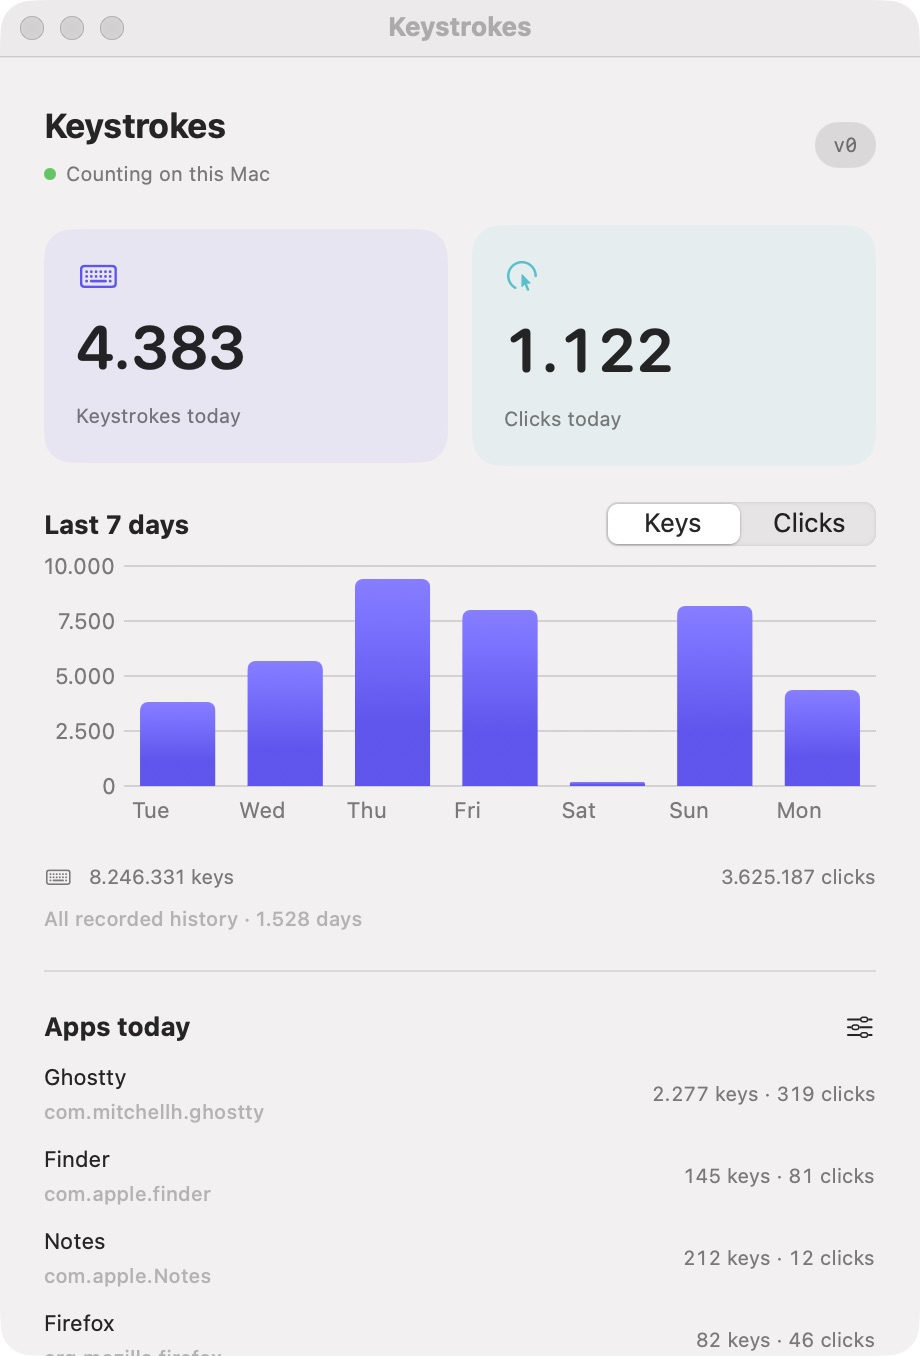
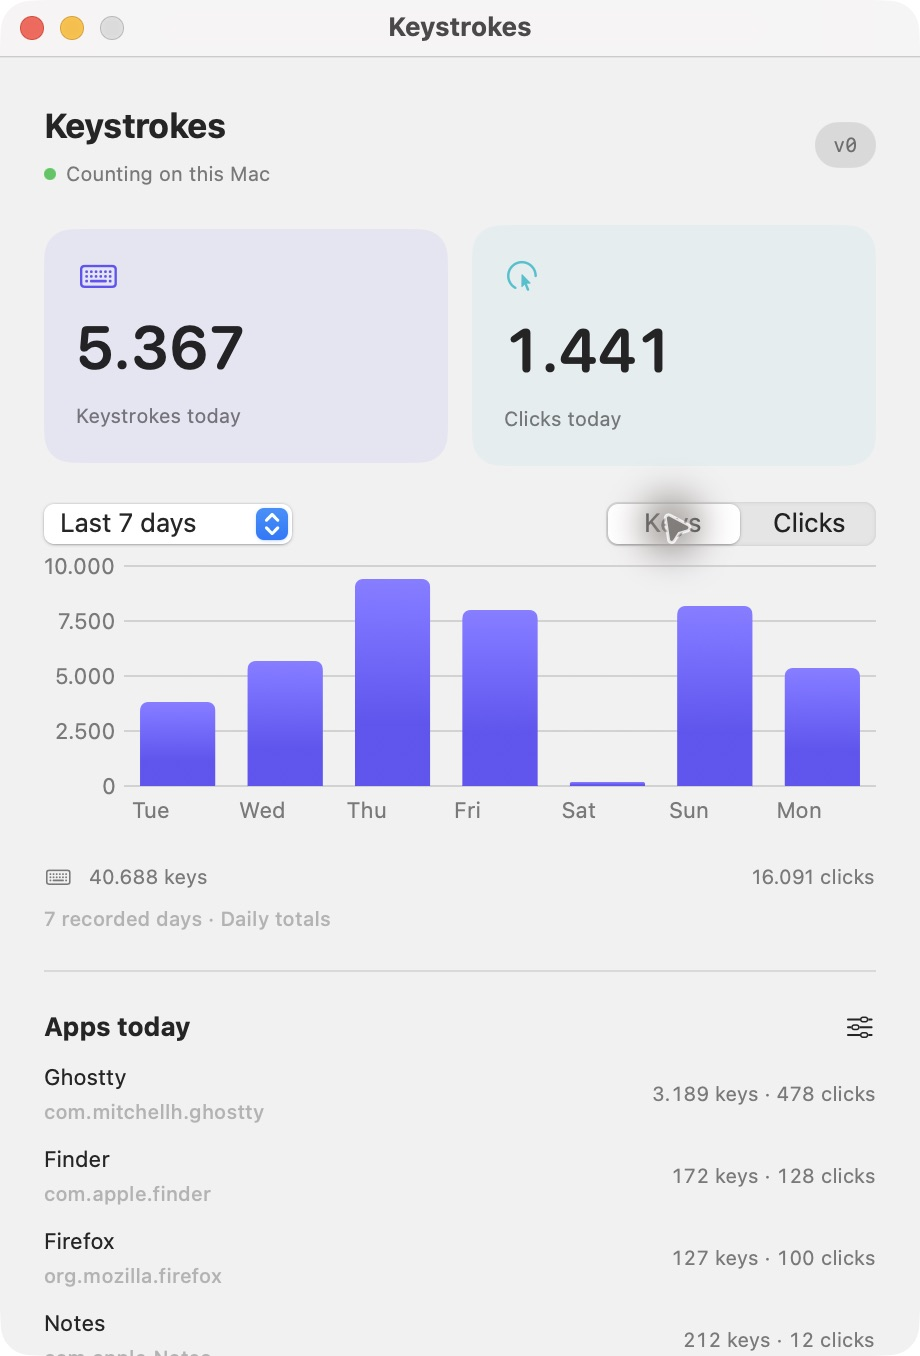
feat: add history ranges and period totals

diff --git a/Sources/Keystrokes/DashboardView.swift b/Sources/Keystrokes/DashboardView.swift
@@ -5,17 +5,8 @@ import KeystrokesCore
 struct DashboardView: View {
     @ObservedObject var model: AppModel
 
-    private var week: [(date: Date, keys: Int64, clicks: Int64)] {
-        let calendar = Calendar.current
-        return (-6...0).compactMap { offset in
-            guard let date = calendar.date(byAdding: .day, value: offset, to: calendar.startOfDay(for: .now)) else { return nil }
-            let day = DayKey.string(date)
-            let stats = model.days.first { $0.day == day }
-            return (date, stats?.keys ?? 0, stats?.clicks ?? 0)
-        }
-    }
-
     var body: some View {
+        let history = HistorySummary.make(days: model.days, range: model.historyRange)
         ScrollView {
         VStack(alignment: .leading, spacing: 18) {
             HStack {
@@ -48,29 +39,49 @@ struct DashboardView: View {
 
             VStack(alignment: .leading, spacing: 10) {
                 HStack {
-                    Text("Last 7 days").font(.headline)
+                    Picker("Time frame", selection: $model.historyRange) {
+                        ForEach(HistoryRange.allCases) { range in Text(range.title).tag(range) }
+                    }
+                    .pickerStyle(.menu).labelsHidden().fixedSize()
+                    .font(.headline)
                     Spacer()
                     Picker("Metric", selection: $model.metric) { Text("Keys").tag("Keys"); Text("Clicks").tag("Clicks") }
                         .pickerStyle(.segmented).labelsHidden().frame(width: 135)
                 }
-                Chart(week, id: \.date) { day in
-                    BarMark(x: .value("Day", day.date, unit: .day), y: .value(model.metric, model.metric == "Keys" ? day.keys : day.clicks))
+                Chart(history.buckets) { bucket in
+                    BarMark(x: .value("Period", bucket.date, unit: model.historyRange.component),
+                            y: .value(model.metric, model.metric == "Keys" ? bucket.keys : bucket.clicks))
                         .foregroundStyle(model.metric == "Keys" ? Color.indigo.gradient : Color.teal.gradient)
                         .cornerRadius(4)
                 }
                 .chartXAxis {
-                    AxisMarks(values: .stride(by: .day)) { _ in AxisValueLabel(format: .dateTime.weekday(.abbreviated)) }
+                    switch model.historyRange {
+                    case .sevenDays:
+                        AxisMarks(values: .stride(by: .day)) { _ in AxisValueLabel(format: .dateTime.weekday(.abbreviated)) }
+                    case .thirtyDays:
+                        AxisMarks(values: .stride(by: .day, count: 7)) { _ in
+                            AxisValueLabel(format: .dateTime.day().month(.abbreviated), centered: false, anchor: .topTrailing)
+                        }
+                    case .year:
+                        AxisMarks(values: .stride(by: .month, count: 2)) { _ in
+                            AxisValueLabel(format: .dateTime.month(.abbreviated), centered: false, anchor: .topTrailing)
+                        }
+                    case .all:
+                        AxisMarks(values: .automatic(desiredCount: 5)) { _ in
+                            AxisValueLabel(format: .dateTime.month(.abbreviated).year(.twoDigits), centered: false, anchor: .topTrailing)
+                        }
+                    }
                 }
                 .chartYAxis { AxisMarks(position: .leading) }
                 .frame(height: 130)
             }
 
             HStack {
-                Label("\(model.allKeys.formatted()) keys", systemImage: "keyboard")
+                Label("\(history.keys.formatted()) keys", systemImage: "keyboard")
                 Spacer()
-                Text("\(model.allClicks.formatted()) clicks")
+                Text("\(history.clicks.formatted()) clicks")
             }.font(.caption).foregroundStyle(.secondary)
-            Text("All recorded history · \(model.days.count.formatted()) days")
+            Text("\(history.recordedDays.formatted()) recorded days · \(model.historyRange.granularity)")
                 .font(.caption2).foregroundStyle(.tertiary).padding(.top, -12)
 
             Divider()

diff --git a/Tests/KeystrokesCoreTests/HistoryTests.swift b/Tests/KeystrokesCoreTests/HistoryTests.swift
@@ -1,0 +1,81 @@
+import Foundation
+import Testing
+@testable import KeystrokesCore
+
+struct HistoryTests {
+    private var calendar: Calendar {
+        var calendar = Calendar(identifier: .iso8601)
+        calendar.timeZone = TimeZone(identifier: "Europe/Madrid")!
+        return calendar
+    }
+
+    private func date(_ value: String) -> Date {
+        ISO8601DateFormatter().date(from: value + "T12:00:00Z")!
+    }
+
+    @Test
+    func dailyRangesIncludeTodayAndHandleDaylightSaving() {
+        let days = [DayStats(day: "2024-03-26", keys: 100, clicks: 100),
+                    DayStats(day: "2024-03-27", keys: 2, clicks: 3),
+                    DayStats(day: "2024-03-31", keys: 5, clicks: 7),
+                    DayStats(day: "2024-04-02", keys: 11, clicks: 13),
+                    DayStats(day: "2024-04-03", keys: 1000, clicks: 1000)]
+        let week = HistorySummary.make(days: days, range: .sevenDays, now: date("2024-04-02"), calendar: calendar)
+        #expect(week.buckets.count == 7)
+        #expect(week.keys == 18)
+        #expect(week.clicks == 23)
+        #expect(week.recordedDays == 3)
+        #expect(week.buckets.map { DayKey.string($0.date, timeZone: calendar.timeZone) } ==
+                ["2024-03-27", "2024-03-28", "2024-03-29", "2024-03-30", "2024-03-31", "2024-04-01", "2024-04-02"])
+        let month = HistorySummary.make(days: days, range: .thirtyDays, now: date("2024-04-02"), calendar: calendar)
+        #expect(month.buckets.count == 30)
+        #expect(month.keys == 118)
+        #expect(month.clicks == 123)
+    }
+
+    @Test
+    func yearUsesCalendarWeeksAcrossNewYearAndExcludesOldDays() {
+        let days = [DayStats(day: "2025-01-02", keys: 1000, clicks: 1000),
+                    DayStats(day: "2025-12-28", keys: 2, clicks: 3),
+                    DayStats(day: "2025-12-29", keys: 5, clicks: 7),
+                    DayStats(day: "2026-01-01", keys: 11, clicks: 13)]
+        let year = HistorySummary.make(days: days, range: .year, now: date("2026-01-02"), calendar: calendar)
+        #expect(DayKey.string(year.start, timeZone: calendar.timeZone) == "2025-01-03")
+        #expect(year.keys == 18)
+        #expect(year.clicks == 23)
+        let newYearWeek = year.buckets.first { DayKey.string($0.date, timeZone: calendar.timeZone) == "2025-12-29" }
+        #expect(newYearWeek?.keys == 16)
+        #expect(newYearWeek?.clicks == 20)
+        #expect(year.recordedDays == 3)
+    }
+
+    @Test
+    func allHistoryAggregatesUnsortedDaysAndFillsMissingMonths() {
+        let days = [DayStats(day: "2026-10-05", keys: 11, clicks: 13),
+                    DayStats(day: "2022-05-13", keys: 2, clicks: 3),
+                    DayStats(day: "2022-05-31", keys: 5, clicks: 7),
+                    DayStats(day: "2022-07-01", keys: 17, clicks: 19)]
+        let all = HistorySummary.make(days: days, range: .all, now: date("2026-10-05"), calendar: calendar)
+        #expect(all.buckets.count == 54)
+        #expect(all.buckets[0].keys == 7)
+        #expect(all.buckets[1].keys == 0)
+        #expect(all.buckets[2].keys == 17)
+        #expect(all.buckets.last?.keys == 11)
+        #expect(all.keys == 35)
+        #expect(all.clicks == 42)
+        #expect(all.recordedDays == 4)
+        #expect(DayKey.string(all.start, timeZone: calendar.timeZone) == "2022-05-13")
+    }
+
+    @Test
+    func emptyHistoryAndLeapYearHaveValidBounds() {
+        let empty = HistorySummary.make(days: [], range: .all, now: date("2026-10-05"), calendar: calendar)
+        #expect(empty.buckets.count == 1)
+        #expect(empty.keys == 0)
+        #expect(empty.recordedDays == 0)
+        let year = HistorySummary.make(days: [DayStats(day: "2024-02-29", keys: 2, clicks: 3)],
+                                       range: .year, now: date("2025-02-28"), calendar: calendar)
+        #expect(DayKey.string(year.start, timeZone: calendar.timeZone) == "2024-03-01")
+        #expect(year.keys == 0)
+    }
+}

diff --git a/Sources/KeystrokesCore/History.swift b/Sources/KeystrokesCore/History.swift
@@ -1,0 +1,84 @@
+import Foundation
+
+public enum HistoryRange: String, CaseIterable, Identifiable, Sendable {
+    case sevenDays, thirtyDays, year, all
+
+    public var id: String { rawValue }
+    public var title: String {
+        switch self {
+        case .sevenDays: "Last 7 days"
+        case .thirtyDays: "Last 30 days"
+        case .year: "Last 12 months"
+        case .all: "All history"
+        }
+    }
+    public var component: Calendar.Component {
+        switch self {
+        case .sevenDays, .thirtyDays: .day
+        case .year: .weekOfYear
+        case .all: .month
+        }
+    }
+    public var granularity: String {
+        switch self {
+        case .sevenDays, .thirtyDays: "Daily totals"
+        case .year: "Weekly totals"
+        case .all: "Monthly totals"
+        }
+    }
+}
+
+public struct HistoryBucket: Identifiable, Sendable {
+    public var id: Date { date }
+    public let date: Date
+    public let keys: Int64
+    public let clicks: Int64
+}
+
+public struct HistorySummary: Sendable {
+    public let start: Date
+    public let end: Date
+    public let buckets: [HistoryBucket]
+    public let keys: Int64
+    public let clicks: Int64
+    public let recordedDays: Int
+
+    public static func make(days: [DayStats], range: HistoryRange, now: Date = .now,
+                            calendar: Calendar = .current) -> HistorySummary {
+        let today = calendar.startOfDay(for: now)
+        let tomorrow = calendar.date(byAdding: .day, value: 1, to: today)!
+        let dated = days.compactMap { day -> (date: Date, stats: DayStats)? in
+            let parts = day.day.split(separator: "-").compactMap { Int($0) }
+            guard parts.count == 3,
+                  let date = calendar.date(from: DateComponents(year: parts[0], month: parts[1], day: parts[2])),
+                  DayKey.string(date, timeZone: calendar.timeZone) == day.day,
+                  date < tomorrow else { return nil }
+            return (date, day)
+        }
+        let start: Date
+        switch range {
+        case .sevenDays: start = calendar.date(byAdding: .day, value: -6, to: today)!
+        case .thirtyDays: start = calendar.date(byAdding: .day, value: -29, to: today)!
+        case .year: start = calendar.date(byAdding: .year, value: -1, to: tomorrow)!
+        case .all: start = dated.map(\.date).min() ?? today
+        }
+        var totals: [Date: (keys: Int64, clicks: Int64)] = [:]
+        var recordedDays = 0
+        for day in dated where day.date >= start {
+            let bucket = calendar.dateInterval(of: range.component, for: day.date)!.start
+            let previous = totals[bucket] ?? (0, 0)
+            totals[bucket] = (previous.keys + day.stats.keys, previous.clicks + day.stats.clicks)
+            recordedDays += 1
+        }
+        var buckets: [HistoryBucket] = []
+        var date = calendar.dateInterval(of: range.component, for: start)!.start
+        while date < tomorrow {
+            let counts = totals[date] ?? (0, 0)
+            buckets.append(HistoryBucket(date: date, keys: counts.keys, clicks: counts.clicks))
+            date = calendar.date(byAdding: range.component, value: 1, to: date)!
+        }
+        return HistorySummary(start: start, end: tomorrow, buckets: buckets,
+                              keys: buckets.reduce(0) { $0 + $1.keys },
+                              clicks: buckets.reduce(0) { $0 + $1.clicks }, recordedDays: recordedDays)
+    }
+}

diff --git a/Sources/Keystrokes/AppModel.swift b/Sources/Keystrokes/AppModel.swift
@@ -15,6 +15,7 @@ final class AppModel: ObservableObject {
     @Published var notice: String?
     @Published var showExclusions = false
     @Published var metric = "Keys"
+    @Published var historyRange = HistoryRange.sevenDays
     @Published var showLaunchAtLoginPrompt = false
     @Published private(set) var loginItemStatus = SMAppService.mainApp.status
     var launchAtLoginEnabled: Bool { loginItemStatus == .enabled }
@@ -43,8 +44,6 @@ final class AppModel: ObservableObject {
         let day = DayKey.string()
         return days.first { $0.day == day }
     }
-    var allKeys: Int64 { days.reduce(0) { $0 + $1.keys } }
-    var allClicks: Int64 { days.reduce(0) { $0 + $1.clicks } }
     var status: String {
         if store == nil { return "Storage unavailable" }
         if !monitoring { return "Input Monitoring permission needed" }

diff --git a/README.md b/README.md
@@ -12,9 +12,16 @@ Menu bar counter:
 
 ![Keystrokes activity icon and live count in the macOS menu bar](docs/images/menu-bar.png)
 
-Dashboard: today's keys and clicks, seven-day chart, imported history and counts per app.
+Dashboard: today's keys and clicks, selectable history ranges, period totals and counts per app.
 
 <img src="docs/images/dashboard.jpg" width="460" alt="Keystrokes dashboard showing daily keyboard and mouse counts, weekly history and per-app statistics">
+
+<details>
+<summary>Explore all recorded history</summary>
+
+<img src="docs/images/history.jpg" width="460" alt="All-history chart with monthly bars and totals from imported OctoMouse history and new Keystrokes activity">
+
+</details>
 
 <details>
 <summary>App statistics and controls</summary>
@@ -52,7 +59,7 @@ The launcher builds `dist/Keystrokes.app` and installs a copy in `~/Applications
 ## v0
 
 - Keystrokes and mouse clicks; held-key repeats ignored, matching OctoMouse.
-- Today, all recorded history, seven-day chart.
+- Today plus 7-day, 30-day, last-12-month and all-history charts with period totals. Daily bars for 7/30 days, weekly for the last 12 months, monthly for all history. Defaults to seven days.
 - Foreground app counts; comma-separated bundle-ID exclusions.
 - Opt-in launch at login; first launch asks, dashboard checkbox changes it later.
 - Automatic read-only OctoMouse migration through the launcher, before collecting new input.
@@ -68,7 +75,7 @@ All daily fields preserved in each imported row's `legacy_json`: counts, elapsed
 
 Imported dates are frozen. Re-import fills missing dates only and skips dates already collected by Keystrokes. This prevents double-counting when OctoMouse keeps running. Today's baseline is captured before v0 starts collecting. **Data → Import OctoMouse…** selects another preferences file. CSV imports are not implemented in v0.
 
-CSV export contains daily key/click totals. To move the complete database, quit Keystrokes and copy `stats.sqlite` plus any remaining `stats.sqlite-wal` / `stats.sqlite-shm` files into the same Application Support directory on the other Mac. Use **Data → Show database in Finder** to locate it.
+CSV export contains daily key/click totals for all recorded days, regardless of the selected chart range. To move the complete database, quit Keystrokes and copy `stats.sqlite` plus any remaining `stats.sqlite-wal` / `stats.sqlite-shm` files into the same Application Support directory on the other Mac. Use **Data → Show database in Finder** to locate it.
 
 App exclusions apply to future events; imported history stays intact. V0 excludes its own UI. Browser URL tracking, dictation, active-time tracking, mouse-distance display and packaged distribution are deferred.
 
